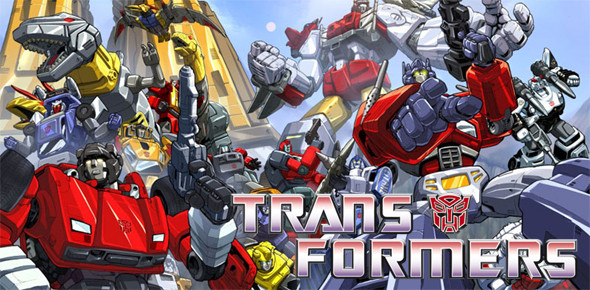
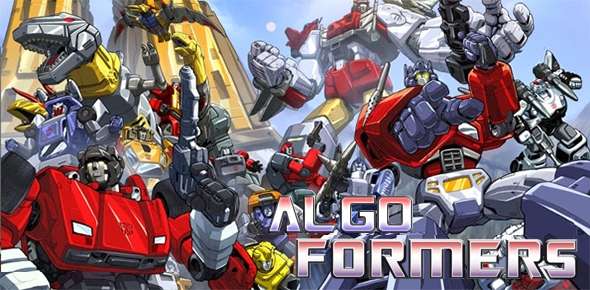
agrego test a JuegoTest, refactoring (casillero y algoformer) y modifico fondo

diff --git a/test/fiuba/algo3/modelo/JuegoTest.java b/test/fiuba/algo3/modelo/JuegoTest.java
@@ -22,14 +22,14 @@ public class JuegoTest {
 
     @Before
     public void setUp() {
-        tablero = new Tablero(11);
+        tablero = new Tablero(10);
         game=new Juego(tablero);
         optimus=new Optimus(tablero.obtenerCasillero(0,4));
         bumblebee=new Bumblebee(tablero.obtenerCasillero(0,5));
         ratchet=new Ratchet(tablero.obtenerCasillero(0,6));
-        megatron=new Megatron(tablero.obtenerCasillero(10,4));
-        bonecrusher=new Bonecrusher(tablero.obtenerCasillero(10,5));
-        frenzy=new Frenzy(tablero.obtenerCasillero(10,6));
+        megatron=new Megatron(tablero.obtenerCasillero(9,4));
+        bonecrusher=new Bonecrusher(tablero.obtenerCasillero(9,5));
+        frenzy=new Frenzy(tablero.obtenerCasillero(9,6));
 
 
 
@@ -85,10 +85,26 @@ public class JuegoTest {
     @Test(expected = BloqueadoException.class)
     public void alCrearJuegoDesepticonNoPuedeAtacarAlComienzo(){
         Juego game=new Juego(tablero);
-        AlgoFormer autobot=new Optimus(tablero.obtenerCasillero(9,5));
+        AlgoFormer autobot=new Optimus(tablero.obtenerCasillero(8,5));
         game.addAutobots(optimus,bumblebee,ratchet);
         game.addDecepticons(megatron,bonecrusher,frenzy);
         game.comenzarJuego();
         megatron.atacar(autobot);
+    }
+    @Test (expected = JugadorGanoException.class)
+    public void jugadorGano(){
+        Juego game=new Juego(tablero);
+        game.addAutobots(optimus,bumblebee,ratchet);
+        game.addDecepticons(megatron,bonecrusher,frenzy);
+        game.comenzarJuego();
+        optimus.avanzar(tablero.obtenerCasillero(1, 5));
+        game.proximoTurno();
+        optimus.avanzar(tablero.obtenerCasillero(2, 5));
+        game.proximoTurno();
+        optimus.avanzar(tablero.obtenerCasillero(3, 5));
+        game.proximoTurno();
+        optimus.avanzar(tablero.obtenerCasillero(4, 5));
+        game.proximoTurno();
+        optimus.avanzar(tablero.obtenerCasillero(5, 5));
     }
 }

diff --git a/src/fiuba/algo3/modelo/AlgoFormer.java b/src/fiuba/algo3/modelo/AlgoFormer.java
@@ -41,13 +41,14 @@ public abstract class AlgoFormer implements ObjetoDependienteDeTurno{
         this.posicion.calcularDistancia(destino,bonus.aplicarBonusVelocidad(this.velocidad));
         if (destino.estaOcupado())
             throw new CasilleroInvalidoException();
-
 		this.posicion.desocupar();
         destino.ocupar();
         this.posicion = destino;
         estadoActual.aplicarEfecto(this,this.posicion.getSuperficie());
         posicion.getEquipamiento().addAlBonus(bonus);
         this.movDisponibles--;
+        if (destino.tieneChispaSuprema()) 
+        	throw new JugadorGanoException();
     }
 
 	

diff --git a/src/fiuba/algo3/modelo/Casillero.java b/src/fiuba/algo3/modelo/Casillero.java
@@ -21,6 +21,9 @@ public class Casillero {
 	public void colocarChispaSuprema(){
 		this.tieneChispaSuprema = true;
 	}
+	public boolean tieneChispaSuprema(){
+		return this.tieneChispaSuprema;
+	}
 
     public void asignarEquipamiento(Equipamiento equipamiento){this.equipamiento = equipamiento;}
 

diff --git a/src/fiuba/algo3/modelo/Juego.java b/src/fiuba/algo3/modelo/Juego.java
@@ -19,6 +19,7 @@ public class Juego {
 
     public Juego(Tablero tablero){
         this.mapa=tablero;
+        mapa.obtenerCentroDeTablero().colocarChispaSuprema();
         this.autobots=new ArrayList<AlgoFormer>();
         this.decepticons=new ArrayList<AlgoFormer>();
     }

diff --git a/src/fiuba/algo3/modelo/Tablero.java b/src/fiuba/algo3/modelo/Tablero.java
@@ -29,4 +29,7 @@ public class Tablero {
 
         return (this.casilleros[posicionX][posicionY]);
     }
+    public Casillero obtenerCentroDeTablero(){
+    	return this.casilleros[this.tamanio/2][this.tamanio/2];
+    }
 }
